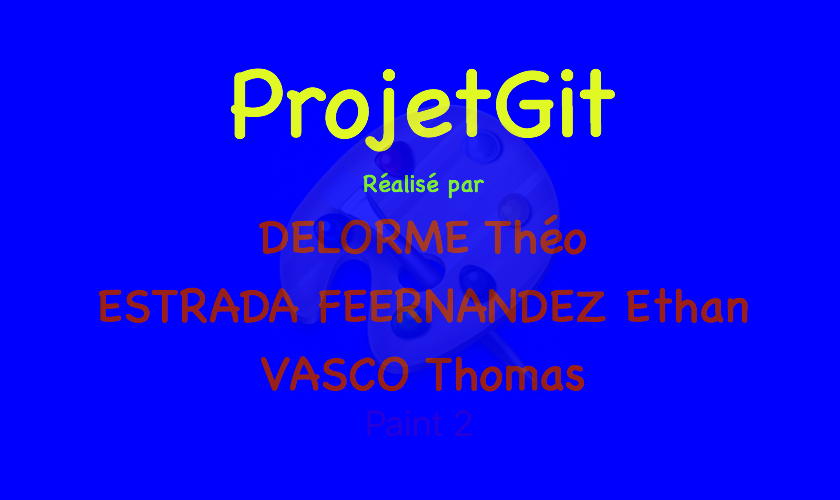
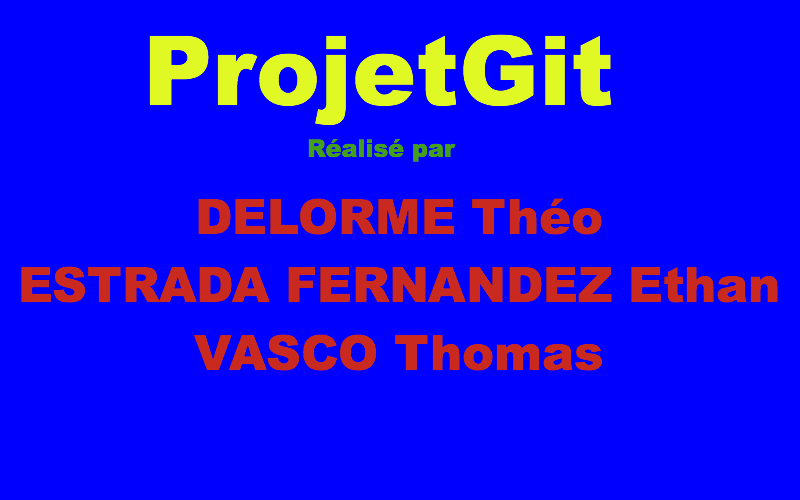
Changement de class et de fondfenetre ainsi qu’un seul doc de recuperation des sorties BASH

Changed region(s): [[0.0, 0.06, 1.0, 0.78], [0.4375, 0.81, 0.5625, 0.87]]

diff --git a/src/paquet/FenPrem.java b/src/paquet/FenPrem.java
@@ -1,0 +1,93 @@
+package paquet;
+
+import java.awt.BorderLayout;
+import java.awt.Graphics;
+import java.awt.Image;
+import java.awt.event.ActionEvent;
+import java.awt.event.ActionListener;
+import java.io.File;
+
+import javax.swing.JFileChooser;
+import javax.swing.JFrame;
+import javax.swing.JMenu;
+import javax.swing.JMenuBar;
+import javax.swing.JMenuItem;
+import javax.swing.JPanel;
+
+public class FenPrem extends JFrame {
+
+	private JMenuBar menuBar = new JMenuBar();
+	private JMenu test1 = new JMenu("Fichier");
+	private JMenuItem item1 = new JMenuItem("Ouvrir");
+	private JMenuItem item2 = new JMenuItem("Quitter");
+
+	public FenPrem() {
+		// TODO Auto-generated constructor stub
+
+		this.test1.add(item1);
+		this.test1.add(item2);
+
+		item1.addActionListener(new ActionListener(){
+			public void actionPerformed(ActionEvent arg0) {
+				JFileChooser dialogue = new JFileChooser(new File("Users"));
+				String chemin = null;
+				File fichier;
+				String[] recupChemin = null;
+
+				if (dialogue.showOpenDialog(null)== JFileChooser.APPROVE_OPTION) {
+					fichier = dialogue.getSelectedFile();
+					chemin = fichier.getPath();
+					recupChemin = chemin.split("clique ici");
+
+				}
+				setVisible(false);
+				recupChemin[0]=recupChemin[0]+"/.git/objects";
+
+				Rechercher finder = new Rechercher();
+				finder.rechercheFichier(recupChemin[0]);
+
+
+
+
+
+			}        
+		});
+		item2.addActionListener(new ActionListener(){
+			public void actionPerformed(ActionEvent arg0) {
+				System.exit(0);
+
+			}        
+		});
+
+		this.menuBar.add(test1);
+
+		this.setJMenuBar(menuBar);
+
+
+
+
+		setSize(860, 560); 
+		setLocation(300, 100);
+		setTitle("Test"); 
+		setContentPane(new AfficheImage("FondFenetre.png")); 
+		getContentPane().setLayout(new BorderLayout()); 
+		setDefaultCloseOperation(JFrame.EXIT_ON_CLOSE);
+		this.setVisible(true); 
+	} 
+}
+
+class AfficheImage extends JPanel 
+{ 
+	Image eau; 
+
+	AfficheImage(String s) 
+	{ 
+		eau = getToolkit().getImage(s); 
+	} 
+
+	public void paintComponent(Graphics g) 
+	{ 
+		super.paintComponent(g); 
+		g.drawImage(eau, 0, 0, getWidth(), getHeight(), this); 
+	} 
+} 

diff --git a/src/paquet/Lanceur.java b/src/paquet/Lanceur.java
@@ -11,7 +11,7 @@ public class Lanceur extends JFrame {
 
 		
 		//Tableur Fenetre = new Tableur();
-		GlobalConsoleFrame test = new GlobalConsoleFrame(); 
+		FenPrem test = new FenPrem(); 
 		
 		
 	}
